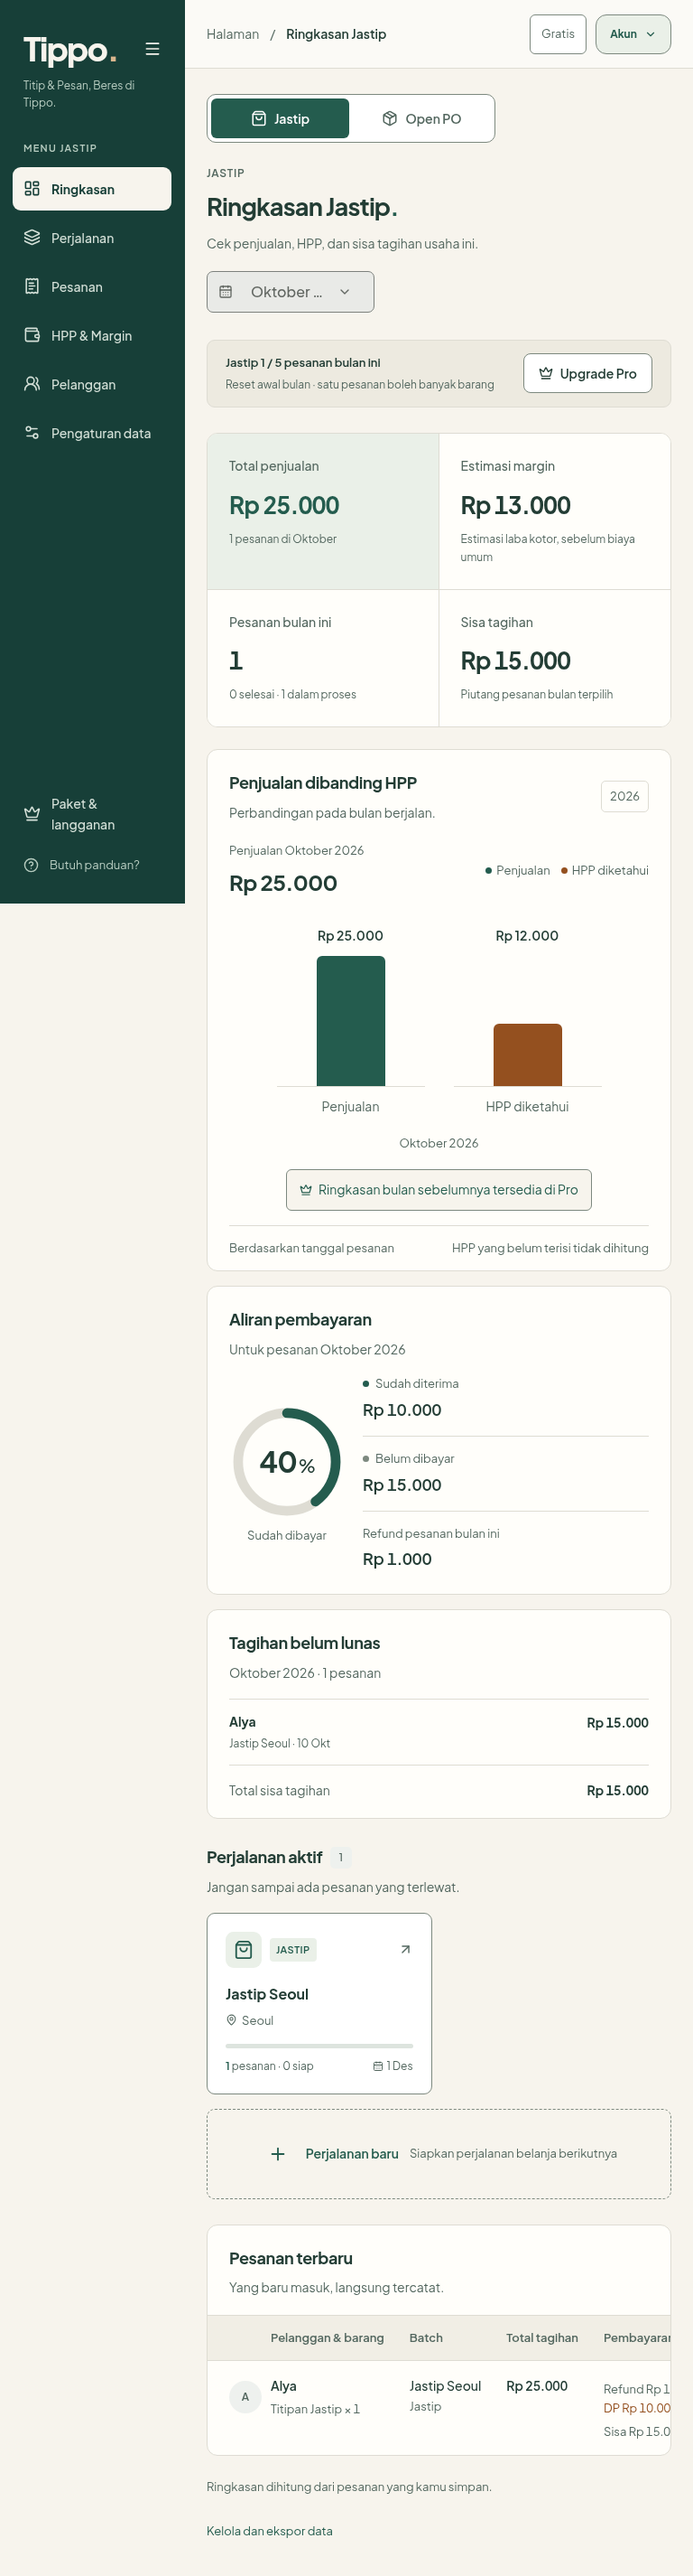
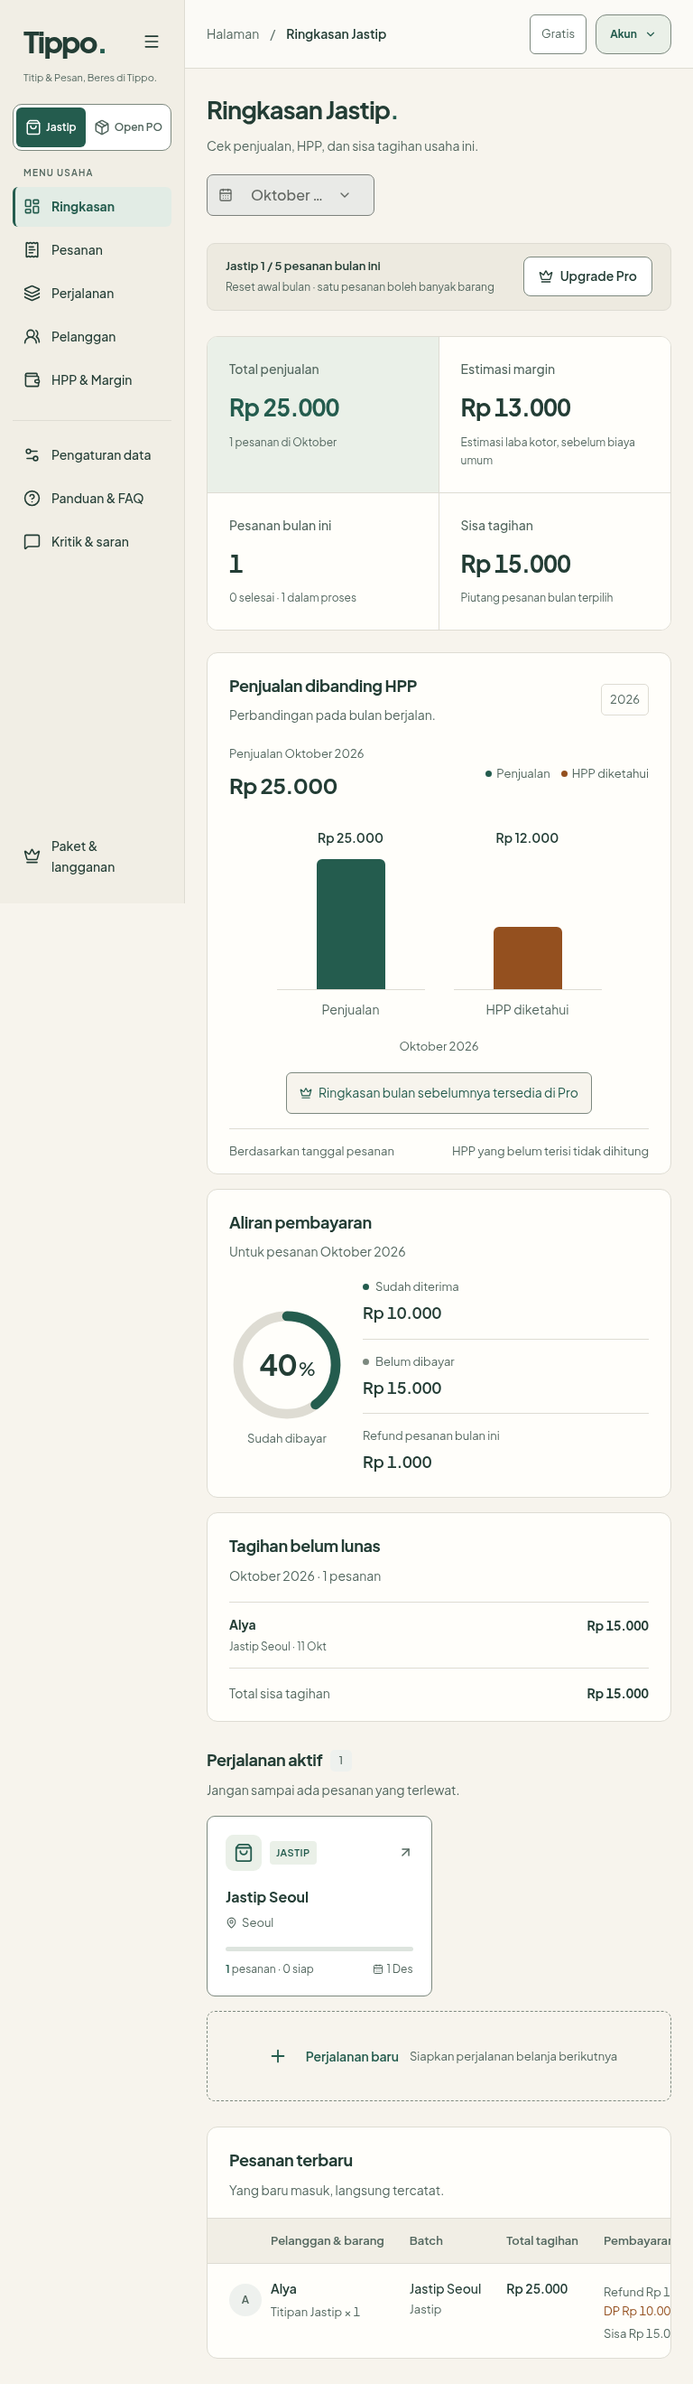
Organize sidebar menus and move business switch into responsive navigation

diff --git a/tests/website.spec.ts b/tests/website.spec.ts
@@ -61,7 +61,13 @@ async function openSection(page:Page,name:string) {
  const target=name==="Paket & langganan"?page.getByRole("button",{name,exact:true}):page.getByRole("navigation",{name:"Navigasi utama"}).getByRole("button",{name,exact:true});
  await target.click();
 }
+async function openNavigation(page:Page) {
+ await page.locator(".page-heading h1").waitFor({state:"visible"});
+ const menu=page.getByRole("button",{name:"Buka navigasi",exact:true});
+ if(await menu.isVisible()&&await menu.getAttribute("aria-expanded")==="false") await menu.click();
+}
 async function openBusiness(page:Page,name:string) {
+ await openNavigation(page);
  await page.getByRole("group",{name:"Pilih usaha"}).getByRole("button",{name,exact:true}).click();
  await openSection(page,name==="Open PO"?"Produk":"Perjalanan");
 }
@@ -116,7 +122,7 @@ test("mobile workspace navigation traps focus, closes with Escape and resets on 
   await expect(menu).toHaveAttribute("aria-expanded","true");
   await expect(sidebar.getByRole("button",{name:"Tutup navigasi",exact:true})).toBeFocused();
   await page.keyboard.press("Shift+Tab");
-  await expect(sidebar.getByRole("button",{name:"Butuh panduan?",exact:true})).toBeFocused();
+  await expect(sidebar.getByRole("button",{name:"Paket & langganan",exact:true})).toBeFocused();
   await page.keyboard.press("Tab");
   await expect(sidebar.getByRole("button",{name:"Tutup navigasi",exact:true})).toBeFocused();
   await page.keyboard.press("Escape");
@@ -393,7 +399,7 @@ for(const width of [320,1440]) for(const theme of ["light","dark"]) test(`help o
     await page.locator(".page-heading h1").waitFor();
     const menu=page.getByRole("button",{name:"Buka navigasi",exact:true});
     if(await menu.isVisible()) await menu.click();
-    await page.getByRole("button",{name:"Butuh panduan?",exact:true}).click();
+    await page.getByRole("button",{name:"Panduan & FAQ",exact:true}).click();
     await expect(page.getByRole("heading",{level:1})).toHaveText("Panduan & FAQ.");
     await expect(page.locator(".toast")).toHaveCount(0);
     if(width<600) await expect(page.locator(".sidebar")).not.toBeVisible();
@@ -415,6 +421,34 @@ for(const width of [320,1440]) for(const theme of ["light","dark"]) test(`help o
   await openHelp();await page.getByRole("button",{name:"Buka Kritik & saran",exact:true}).click();
   await expect(page.getByRole("heading",{level:1})).toHaveText("Kritik & saran.");
   expect(saves).toHaveLength(0);
+});
+
+for(const width of [390,1440]) for(const theme of ["light","dark"]) test(`sidebar groups menus and switches businesses ${width} ${theme}`,async({page})=>{
+ await authenticate(page);await page.setViewportSize({width,height:900});await page.addInitScript(theme=>localStorage.setItem("tippo.theme.v1",theme),theme);await page.goto("/app");
+ await openNavigation(page);
+ const sidebar=page.locator(".sidebar");
+ await expect(sidebar.getByRole("group",{name:"Pilih usaha"})).toBeVisible();
+ await expect(page.locator("main .business-switch")).toHaveCount(0);
+ await expect(sidebar.locator(".sidebar-menu-group").first().getByRole("button")).toHaveText(["Ringkasan","Pesanan","Perjalanan","Pelanggan","HPP & Margin"]);
+ await sidebar.getByRole("button",{name:"Open PO",exact:true}).click();
+ await expect(page.getByRole("heading",{level:1})).toHaveText("Ringkasan Open PO.");
+ if(width<760) await expect(sidebar).not.toBeVisible();
+ await openNavigation(page);
+ await expect(sidebar.locator(".sidebar-menu-group").first().getByRole("button")).toHaveText(["Ringkasan","Pesanan","Produk","Batch PO","Pelanggan","HPP & Margin"]);
+ await expect(sidebar.getByRole("group",{name:"Menu pendukung"}).getByRole("button")).toHaveText(["Pengaturan data","Panduan & FAQ","Kritik & saran"]);
+ await sidebar.screenshot({path:`docs/preview-sidebar-${width}-${theme}.png`});
+ if(width>=760) {
+  await sidebar.getByRole("button",{name:"Minimalkan sidebar"}).click();await expect(sidebar).toHaveCSS("width","76px");
+  await expect(sidebar.getByRole("button",{name:"Panduan & FAQ"})).toHaveAttribute("title","Panduan & FAQ");
+  await sidebar.getByRole("button",{name:"Jastip",exact:true}).click();await expect(page.getByRole("heading",{level:1})).toHaveText("Ringkasan Jastip.");
+  await sidebar.getByRole("button",{name:"Perluas sidebar"}).click();
+ } else {
+  await page.keyboard.press("Shift+Tab");await expect(sidebar.getByRole("button",{name:"Paket & langganan",exact:true})).toBeFocused();
+  await page.keyboard.press("Tab");await expect(sidebar.getByRole("button",{name:"Tutup navigasi",exact:true})).toBeFocused();
+  await page.keyboard.press("Escape");await expect(page.getByRole("button",{name:"Buka navigasi"})).toBeFocused();await openNavigation(page);
+ }
+ await sidebar.getByRole("button",{name:"Panduan & FAQ",exact:true}).click();await expect(page.getByRole("heading",{level:1})).toHaveText("Panduan & FAQ.");
+ expect(await page.evaluate(()=>document.documentElement.scrollWidth)).toBe(width);
 });
 
 test("custom selections support keyboard, touch and Escape without closing the order", async ({page}) => {
@@ -671,14 +705,16 @@ function twoBusinessWorkspace():AppData {
 for(const width of [320,768,1440])for(const theme of ["light","dark"])test(`business switch ${width} ${theme} scopes summaries navigation forms and remembers mode`,async({page})=>{
  await page.setViewportSize({width,height:1000});await page.addInitScript(t=>localStorage.setItem("tippo.theme.v1",t),theme);
  await authenticate(page,{workspace:twoBusinessWorkspace()});await page.goto("/app");
+ await openNavigation(page);
  const switcher=page.getByRole("group",{name:"Pilih usaha"});await expect(switcher.getByRole("button",{name:"Jastip",exact:true})).toHaveAttribute("aria-pressed","true");await expect(page.getByRole("heading",{level:1})).toHaveText("Ringkasan Jastip.");await expect(page.locator(".stats-grid")).toContainText("Rp 25.000");await expect(page.locator(".payments-card")).toContainText("Rp 1.000");await expect(page.locator(".unpaid-card")).toContainText("Alya");await expect(page.locator(".recent-card")).not.toContainText("Produk PO");await expect(page.locator(".batch-preview")).not.toContainText("PO Mingguan");await expect(page.locator(".quota-banner")).toContainText("Jastip 1 / 5");
  await openSection(page,"HPP & Margin");const hpp=page.getByLabel("Pilih batch untuk HPP");await hpp.click();await expect(page.getByRole("option",{name:"Jastip Seoul",exact:true})).toBeVisible();await expect(page.getByRole("option",{name:"PO Mingguan",exact:true})).toHaveCount(0);await page.keyboard.press("Escape");
  const jastipAccent=await page.evaluate(()=>getComputedStyle(document.documentElement).getPropertyValue("--primary"));
+ await openNavigation(page);
  await switcher.getByRole("button",{name:"Open PO",exact:true}).focus();await page.keyboard.press("Enter");await expect(page.getByRole("heading",{level:1})).toHaveText("Ringkasan Open PO.");await expect(page.locator(".stats-grid")).toContainText("Rp 100.000");await expect(page.locator(".payments-card")).not.toContainText("Refund pesanan bulan ini");await expect(page.locator(".unpaid-card")).toContainText("Bima PO");await expect(page.locator(".unpaid-card")).not.toContainText("Alya");await expect(page.locator(".recent-card")).not.toContainText("Titipan Jastip");await expect(page.locator(".quota-banner")).toContainText("Open PO 1 / 5");expect(await page.evaluate(()=>getComputedStyle(document.documentElement).getPropertyValue("--primary"))).not.toBe(jastipAccent);await expect(page.locator(".current-month-chart")).toHaveAttribute("aria-label",/100\.000.*50\.000/);
  await page.screenshot({path:`docs/preview-business-po-${width}-${theme}.png`,fullPage:true});
  await openSection(page,"HPP & Margin");await hpp.click();await expect(page.getByRole("option",{name:"PO Mingguan",exact:true})).toBeVisible();await expect(page.getByRole("option",{name:"Jastip Seoul",exact:true})).toHaveCount(0);await page.keyboard.press("Escape");
  await openSection(page,"Pesanan");await page.getByRole("button",{name:"Pesanan PO baru",exact:true}).click();const form=page.getByRole("dialog",{name:"Pesanan PO baru",exact:true});await expect(form).toBeVisible();await expect(form.getByLabel("Batch PO",{exact:true})).toHaveAttribute("data-value","po-business");await page.keyboard.press("Escape");
- await page.reload();await expect(switcher.getByRole("button",{name:"Open PO",exact:true})).toHaveAttribute("aria-pressed","true");await expect(page.getByRole("heading",{level:1})).toHaveText("Ringkasan Open PO.");await switcher.getByRole("button",{name:"Jastip",exact:true}).click();await expect(page.locator(".recent-card")).toContainText("Titipan Jastip");await openSection(page,"Pesanan");await page.getByRole("button",{name:"Pesanan jastip baru",exact:true}).click();await expect(page.getByRole("dialog",{name:"Pesanan jastip baru",exact:true})).toBeVisible();await page.keyboard.press("Escape");await openSection(page,"Ringkasan");expect(await page.evaluate(()=>document.documentElement.scrollWidth)).toBe(width);
+ await page.reload();await openNavigation(page);await expect(switcher.getByRole("button",{name:"Open PO",exact:true})).toHaveAttribute("aria-pressed","true");await expect(page.getByRole("heading",{level:1})).toHaveText("Ringkasan Open PO.");await switcher.getByRole("button",{name:"Jastip",exact:true}).click();await expect(page.locator(".recent-card")).toContainText("Titipan Jastip");await openSection(page,"Pesanan");await page.getByRole("button",{name:"Pesanan jastip baru",exact:true}).click();await expect(page.getByRole("dialog",{name:"Pesanan jastip baru",exact:true})).toBeVisible();await page.keyboard.press("Escape");await openSection(page,"Ringkasan");expect(await page.evaluate(()=>document.documentElement.scrollWidth)).toBe(width);
  await page.screenshot({path:`docs/preview-business-jastip-${width}-${theme}.png`,fullPage:true});
 });
 test("HPP save in one business preserves the other business transactions",async({page})=>{

diff --git a/src/components/tippo-app.tsx b/src/components/tippo-app.tsx
@@ -73,12 +73,15 @@ export function TippoApp({ cloud }: { cloud?: AccountWorkspace }) {
   const titles: Record<Page, string> = { dashboard: `Ringkasan ${modeLabel}`, orders: `Pesanan ${modeLabel}`, products: "Produk Open PO", batches: mode === "po" ? "Batch PO" : "Perjalanan Jastip", hpp: `HPP & Margin ${modeLabel}`, customers: "Pelanggan", settings: "Pengaturan data", profile: "Profil bisnis", subscription: "Paket & langganan", feedback: "Kritik & saran", help: "Panduan & FAQ" };
   const navigation = [
     { id: "dashboard" as Page, label: "Ringkasan", icon: LayoutDashboard },
+    { id: "orders" as Page, label: "Pesanan", icon: ReceiptText },
     ...(mode === "po" ? [{ id: "products" as Page, label: "Produk", icon: Package }] : []),
     { id: "batches" as Page, label: mode === "po" ? "Batch PO" : "Perjalanan", icon: Layers3 },
-    { id: "orders" as Page, label: "Pesanan", icon: ReceiptText },
-    { id: "hpp" as Page, label: "HPP & Margin", icon: Wallet },
     { id: "customers" as Page, label: "Pelanggan", icon: UsersRound },
+    { id: "hpp" as Page, label: "HPP & Margin", icon: Wallet },
+  ];
+  const supportNavigation = [
     { id: "settings" as Page, label: "Pengaturan data", icon: Settings2 },
+    { id: "help" as Page, label: "Panduan & FAQ", icon: CircleHelp },
     { id: "feedback" as Page, label: "Kritik & saran", icon: MessageSquare },
   ];
   const [sidebarCollapsed, setSidebarCollapsed] = useState(false);
@@ -278,12 +281,20 @@ export function TippoApp({ cloud }: { cloud?: AccountWorkspace }) {
         <button className="icon-button sidebar-close" aria-label="Tutup navigasi" onClick={() => setMobileOpen(false)}><X size={20} /></button>
         <div className="sidebar-heading"><button className="brand" onClick={() => go("dashboard")} aria-label="Tippo, halaman ringkasan"><span>Tippo<span className="brand-dot">.</span></span></button><button className="icon-button sidebar-toggle" aria-label={sidebarCollapsed ? "Perluas sidebar" : "Minimalkan sidebar"} aria-expanded={!sidebarCollapsed} aria-controls="workspace-navigation" onClick={() => setSidebarCollapsed(!sidebarCollapsed)}><Menu size={20} aria-hidden="true" /></button></div>
         <p className="brand-caption">Titip &amp; Pesan, Beres di Tippo.</p>
-        <div className="workspace-label">Menu {modeLabel}</div>
+        <div className="business-switch" role="group" aria-label="Pilih usaha">
+          <button type="button" aria-label="Jastip" title={sidebarCollapsed ? "Jastip" : undefined} aria-pressed={mode === "jastip"} onClick={() => switchMode("jastip")}><ShoppingBag size={18} aria-hidden="true" /><span>Jastip</span></button>
+          <button type="button" aria-label="Open PO" title={sidebarCollapsed ? "Open PO" : undefined} aria-pressed={mode === "po"} onClick={() => switchMode("po")}><Package size={18} aria-hidden="true" /><span>Open PO</span></button>
+        </div>
+        <div className="workspace-label">Menu usaha</div>
         <nav aria-label="Navigasi utama">
+          <div className="sidebar-menu-group">
           {navigation.map(({ id, label, icon: Icon }) => <button key={id} aria-label={label} title={sidebarCollapsed ? label : undefined} aria-current={page === id ? "page" : undefined} className={`nav-item ${page === id ? "active" : ""}`} onClick={() => go(id)}><Icon size={19} /><span>{label}</span></button>)}
+          </div>
+          <div className="sidebar-menu-group sidebar-support" role="group" aria-label="Menu pendukung">
+            {supportNavigation.map(({ id, label, icon: Icon }) => <button key={id} aria-label={label} title={sidebarCollapsed ? label : undefined} aria-current={page === id ? "page" : undefined} className={`nav-item ${page === id ? "active" : ""}`} onClick={() => go(id)}><Icon size={19} /><span>{label}</span></button>)}
+          </div>
         </nav>
         <div className="sidebar-bottom"><button aria-label="Paket & langganan" title={sidebarCollapsed ? "Paket & langganan" : undefined} className={`nav-item ${page === "subscription" ? "active" : ""}`} aria-current={page === "subscription" ? "page" : undefined} onClick={() => go("subscription")}><Crown size={19} /><span>Paket & langganan</span></button>
-          <button className="help-link" aria-label="Butuh panduan?" aria-current={page === "help" ? "page" : undefined} title={sidebarCollapsed ? "Butuh panduan?" : undefined} onClick={() => go("help")}><CircleHelp size={17} /><span>Butuh panduan?</span></button>
         </div>
       </aside>
 
@@ -309,10 +320,6 @@ export function TippoApp({ cloud }: { cloud?: AccountWorkspace }) {
           </div>
         </header>
         <main className="main-content">
-          <div className="business-switch" role="group" aria-label="Pilih usaha">
-            <button type="button" aria-pressed={mode === "jastip"} onClick={() => switchMode("jastip")}><ShoppingBag size={18} aria-hidden="true" />Jastip</button>
-            <button type="button" aria-pressed={mode === "po"} onClick={() => switchMode("po")}><Package size={18} aria-hidden="true" />Open PO</button>
-          </div>
           <div className="page-heading"><div><h1>{titles[page]}<span className="heading-dot">.</span></h1><p>{subtitles[page]}</p></div>{page !== "hpp" && <div className="heading-actions">{page === "dashboard" && <div className="month-picker"><CalendarDays size={16} /><Select aria-label="Pilih bulan ringkasan" disabled={!isPro} value={month} onValueChange={(value) => setMonth(value)}>{(isPro ? availableYears.flatMap((year) => monthNames.map((name, i) => <SelectOption key={`${year}-${i}`} value={`${year}-${String(i + 1).padStart(2, "0")}`}>{name} {year}</SelectOption>)) : [<SelectOption key={currentMonth} value={currentMonth}>{monthLabel(currentMonth)}</SelectOption>])}</Select></div>}{page === "customers" && <Button className="btn btn-primary" onClick={() => { setSaveError(""); setCustomerModal("new"); }}><Plus size={17} />Tambah pelanggan</Button>}{page === "orders" && <Button className="btn btn-primary" onClick={() => startOrder()}><Plus size={17} />{mode === "po" ? "Pesanan PO baru" : "Pesanan jastip baru"}</Button>}</div>}</div>
 
           {!isPro && <div className="quota-banner"><div><strong>{modeLabel} {monthlyOrderUsage(data, new Date(), mode)} / 5 pesanan bulan ini</strong><span>Reset awal bulan · satu pesanan boleh banyak barang</span></div><Button className="btn btn-secondary" onClick={() => go("subscription")}><Crown size={15} />Upgrade Pro</Button></div>}

diff --git a/src/app/theme.css b/src/app/theme.css
@@ -208,3 +208,31 @@
 :root[data-theme="dark"] .status-done,
 :root[data-theme="dark"] .select-trigger.status-done,
 :root[data-theme="dark"] .mobile-row-heading small { color: #91c9b1; }
+
+:root { --sidebar-background:#f1eee5; --sidebar-active:#e2ece5; }
+:root[data-theme="dark"] { --sidebar-background:#1e2220; --sidebar-active:#293a32; }
+:root[data-business-mode="po"] { --sidebar-active:var(--business-soft); }
+:root .app-shell .sidebar { background:var(--sidebar-background); color:var(--ink); border-right-color:var(--border); padding-top:24px; }
+.sidebar .brand { color:var(--ink); font-size:32px; }
+.sidebar .brand-dot { color:var(--primary); }
+.sidebar .brand-caption { color:var(--muted); font-size:11px; }
+.sidebar .workspace-label { color:var(--muted); margin:0 12px 8px; font-size:10px; }
+.sidebar .sidebar-toggle,.sidebar .sidebar-close { color:var(--ink); }
+.sidebar .sidebar-toggle:hover,.sidebar .sidebar-close:hover { background:var(--tone-surface-eaf0e8); color:var(--primary); }
+.sidebar .nav-item { color:var(--ink); min-height:44px; padding:10px 9px; border-left:3px solid transparent; border-radius:6px; }
+:root .sidebar .nav-item:hover { background:var(--tone-surface-eaf0e8); color:var(--primary); }
+:root .sidebar .nav-item.active,:root .sidebar .nav-item.active:hover { background:var(--sidebar-active); color:var(--primary); border-left-color:var(--primary); }
+.sidebar-menu-group { display:flex; flex-direction:column; gap:4px; }
+.sidebar-support { margin-top:16px; padding-top:16px; border-top:1px solid var(--border); }
+.sidebar .business-switch { width:100%; margin:20px 0 16px; padding:3px; gap:3px; }
+.sidebar .business-switch button { gap:5px; padding:6px; font-size:12px; }
+.sidebar .business-switch button > span { white-space:nowrap; }
+.sidebar-bottom { padding-top:24px; }
+@media(min-width:761px) {
+ .sidebar-collapsed .sidebar .business-switch { flex-direction:column; margin-bottom:12px; padding:3px; }
+ .sidebar-collapsed .business-switch button > span { display:none; }
+ .sidebar-collapsed .sidebar nav { margin-top:0; }
+ .sidebar-collapsed .sidebar .nav-item { padding:10px 6px; }
+ .sidebar-collapsed .sidebar-support { margin-top:10px; padding-top:10px; }
+}
+@media(max-width:760px) { .sidebar .business-switch button { font-size:13px; } .sidebar .brand { padding-right:44px; } }

diff --git a/docs/SIDEBAR.md b/docs/SIDEBAR.md
@@ -1,0 +1,7 @@
+# Sidebar organization
+
+The Jastip / Open PO switch lives below the sidebar brand. The main-content switch is removed. Business menus appear in this order: Ringkasan, Pesanan, Produk (PO only), Batch PO / Perjalanan, Pelanggan, HPP & Margin. A divider separates Pengaturan data, Panduan & FAQ, and Kritik & saran. Paket & langganan remains at the bottom.
+
+Both businesses use a neutral sidebar: warm cream in light mode and charcoal in dark mode. Mint/apricot accents identify the selected business, current menu and active left border. Menu controls have at least 44 px height. Collapsed desktop navigation keeps icon-only business choices and menu names through title tooltips. Mobile users can switch businesses inside the navigation panel; choosing a business or page closes it. Escape restores focus to the menu opener.
+
+Validation: lint and production build pass. Four sidebar checks at 390/1440 px in both themes cover ordering, grouping, mobile close/focus behavior, desktop collapse, tooltips, business changes and guide navigation. Six existing business-switch checks at 320/768/1440 px and four guide-page checks at 320/1440 px pass in both themes. Visual review caught and corrected the old PO background overriding neutral light colors and the Open PO switch label wrapping. Production Vercel deployment and physical devices were not verified.

diff --git a/docs/HELP-PAGE.md b/docs/HELP-PAGE.md
@@ -1,6 +1,6 @@
 # In-app guides and FAQ
 
-The sidebar's “Butuh panduan?” button opens a dedicated “Panduan & FAQ” workspace page instead of taking the user to data settings and showing a toast. It closes mobile navigation and follows the active business theme.
+The sidebar's “Panduan & FAQ” menu (previously “Butuh panduan?”) opens a dedicated guide page. It closes mobile navigation and follows the active business theme.
 
 The guide's starting steps differ for Jastip and Open PO. Shared sections cover order entry, payment, discounts, HPP, status transitions, refunds, Excel import and backups. Eleven expandable FAQ answers cover the current product behavior, including plan limits and draft subscription invoices. A contents navigation links to sections; action buttons open the related workspace menu. No data is written by reading the guides or navigating from them.
 
